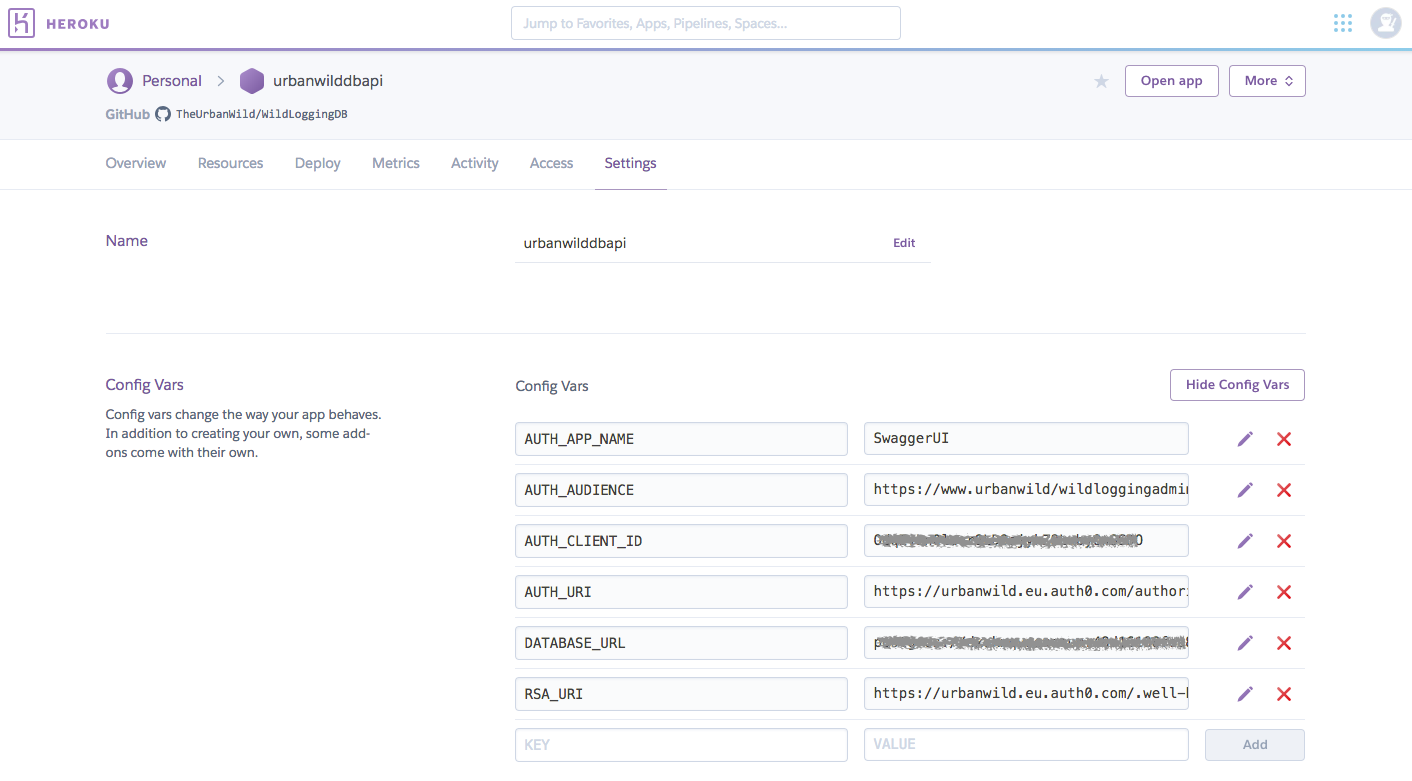
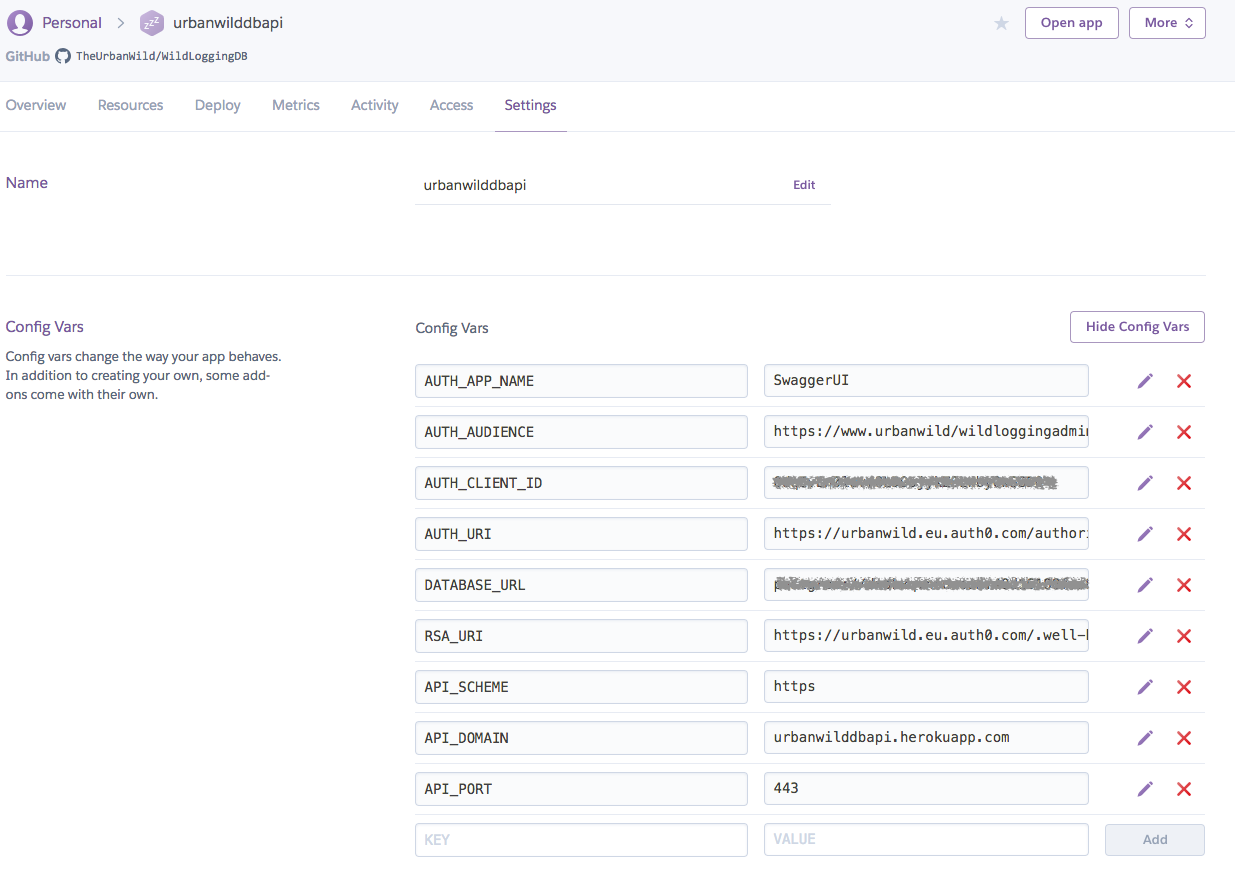
Added how-to for setting the server scheme, domain and port in the SwaggerUI SPWA, using server environment variables. Means that the server can be deployed to any location without changing the source code.

diff --git a/Authentication.md b/Authentication.md
@@ -235,7 +235,7 @@ We're going to add an authentication definition first, which mirrors the definit
          security:
          - urbanwild_admin_auth:
            - "admin"
-       ```
+  ```
 
 ### Adding scopes to the authentication
 #### What are scopes?
@@ -714,7 +714,7 @@ example: `https://urbanwild.eu.auth0.com//.well-known/jwks.json`
         // Interpret Swagger resources and attach metadata to request - must be first in swagger-tools middleware chain
         app.use(middleware.swaggerMetadata());
     
-    ```
+   ```
 
 14. **with** : 
 
@@ -723,6 +723,8 @@ example: `https://urbanwild.eu.auth0.com//.well-known/jwks.json`
       database.initialise(dbUrl, true);
       // initialise authentication
       auth.initialise(rsaUri);
+      ```
+
     ```
 
 16. make it explicit where the authentication is. Substitute the value from the environment variables in to the `swagger.yaml, so it can be read by the SwaggerUI:
@@ -752,6 +754,8 @@ example: `https://urbanwild.eu.auth0.com//.well-known/jwks.json`
 23. ```javascript
       // Interpret Swagger resources and attach metadata to request - must be first in swagger-tools middleware chain
       app.use(middleware.swaggerMetadata());
+      ```
+
     ```
 
 24. **with:**
@@ -759,11 +763,13 @@ example: `https://urbanwild.eu.auth0.com//.well-known/jwks.json`
 25. ```javascript
       // Interpret Swagger resources and attach metadata to request - must be first in swagger-tools middleware chain
       app.use(middleware.swaggerMetadata());
-    
+          
       // Provide the security handlers
       app.use(middleware.swaggerSecurity({
         urbanwild_admin_auth: auth.authorisation_handler
       }));
+      ```
+
     ```
 
 26. now create a file for the authentication handler: `./utils/authentication.js`:
@@ -921,8 +927,122 @@ Now you should be able to run on local host. Use the Swagger UI to attempt to ac
 
 There are a couple of things which we need to do before deploying, so our authentication system will work:
 
+* Add more environment variables, to override the API location in the swagger.yaml
+  * This means we can have multiple deployments from the same source code
 * Add the new environment variables to Heroku
 * Add the deployed callback page to Auth0
+
+#### API location variables
+
+We're going to add some environment variables which override specific settings in the `swagger.yaml` for the location of the API. 
+
+You'll recall that the SwaggerUI application will read the `swagger.yaml` in order to know where to send HTTP requests to, to access the API.
+
+Having the location of the API set in the swagger.yaml ties the deployment to the information in the repository. If you want the API to have a nice SPWA, it means you can only deploy it to location specified in the yaml. That means only one deployment per copy of the repo.
+
+##### Localhost by default
+
+We'll point our `swagger.yaml` at localhost, by default:
+
+```yaml
+swagger: '2.0'
+info:
+  description: ''
+  version: 1.6.0
+  title: theurbanwild
+  contact:
+    name: alicedigitallabs@gmail.com
+    email: alicedigitallabs@gmail.com
+host: localhost:8080
+schemes:
+  - http
+```
+
+We'll add some code in the server to check for the following optional environment variables:
+
+* API_DOMAIN
+
+* API_PORT
+
+* API_SCHEME
+
+These variables override the values in the `swagger.yaml` ONLY IF THEY ARE SET. The repo is then set up for local debugging by default.
+
+Here are the changes we made to the the `index.js` file in the server, to do it:
+
+ 
+
+```javascript
+var secDefs = swaggerDoc.securityDefinitions;
+for (var secDef in secDefs) {
+    console.log("changing: " + secDefs[secDef].authorizationUrl + " : to : " + authUri);
+    secDefs[secDef].authorizationUrl = authUri;
+}
+
+
+var getSwaggerUIConfig = function(){
+  var result = {};
+
+  result.scheme = process.env.API_SCHEME;
+  result.domain = process.env.API_DOMAIN;
+  result.port = process.env.API_PORT;
+  result.existingPort = process.env.PORT; // assigned by Heroku if deployed.
+  
+  return result;
+
+}
+
+var writeSwaggerUIConfig = function(swaggerDoc, env){
+
+  var doc = {};
+  doc.scheme = swaggerDoc.schemes[0];  //WILL THROW IF SCHEMES NOT DEFINED IN DOC
+  doc.domain = swaggerDoc.host.split(':')[0];  //WILL THROW IF HOST NOT DEFINED IN DOC 
+  doc.port = swaggerDoc.host.split(':')[1];  //WILL THROW IF PORT NOT DEFINED IN DOC  
+  
+  if (env.existingPort){
+    console.log("remote deployment has already defined port");
+    if(env.port){
+      
+      doc.port = env.port; // override (useful for consistency, or if the remote service is not heroku, and listening on a different port.)
+      console.log("external facing port env variable is set. Updating swagger.yaml with this value: %s", doc.port);
+    }else{
+      doc.port = 443; // override the setting with Heroku's default external facing port
+      console.log("external facing port env variable is unset. Updating swagger.yaml with default value: %s", doc.port);
+    }
+  }else{
+    console.log("local deployment.");
+    if(env.port){
+        doc.port = env.port; //override (useful if you have lots of servers running on local host)
+        console.log("overriding swagger.yaml port to env variable: %s", doc.port);
+    }else{
+        env.port = doc.port;
+        console.log("env varable not defined for port. Setting to default from swagger.yaml: %s ", env.port );
+    }
+  }
+  if(env.domain){
+    doc.domain = env.domain; //override (useful if you want to deploy to a different server than specified in the yaml)
+    console.log("overriding swagger.yaml domain to env variable: %s", doc.domain);
+  }
+  if(env.scheme){
+    doc.scheme = env.scheme; // override (useful if you want to deploy to a different comms scheme than that defined in the yaml.
+    console.log("overriding swagger.yaml scheme to env variable: %s", doc.scheme);
+  }
+  
+  var hostAddrPort = doc.domain + ":" + doc.port;
+  var schemes = [doc.scheme];
+
+  swaggerDoc.host = hostAddrPort;
+  swaggerDoc.schemes = schemes;
+  
+  return swaggerDoc;
+}
+
+var swaggerUIConfig = getSwaggerUIConfig();
+swaggerDoc = writeSwaggerUIConfig(swaggerDoc, swaggerUIConfig);
+var serverPort = swaggerUIConfig.existingPort || swaggerUIConfig.port;
+```
+
+... you'll notice we have to deal with a number of scenarios - especially since Heroku routes http traffic through port 443 into a totally different port whichthe NodeJS instance must listen for.
 
 ####  Adding the Environment Variables to Heroku
 
@@ -933,6 +1053,14 @@ This is pretty straight-forward. Just take the values which you put into your VS
 * AUTH_AUDIENCE
 * AUTH_URI
 * RSA_URI
+
+... and the others, which you be able to obtain from your heroku settings:
+
+* API_DOMAIN
+
+- API_PORT
+
+- API_SCHEME
 
 Like this:
 
